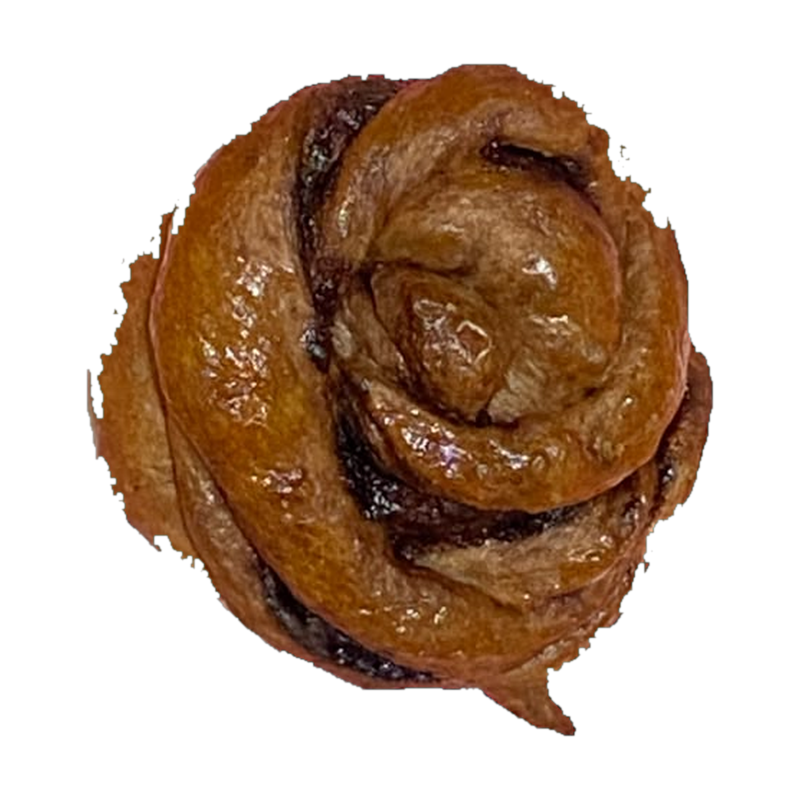
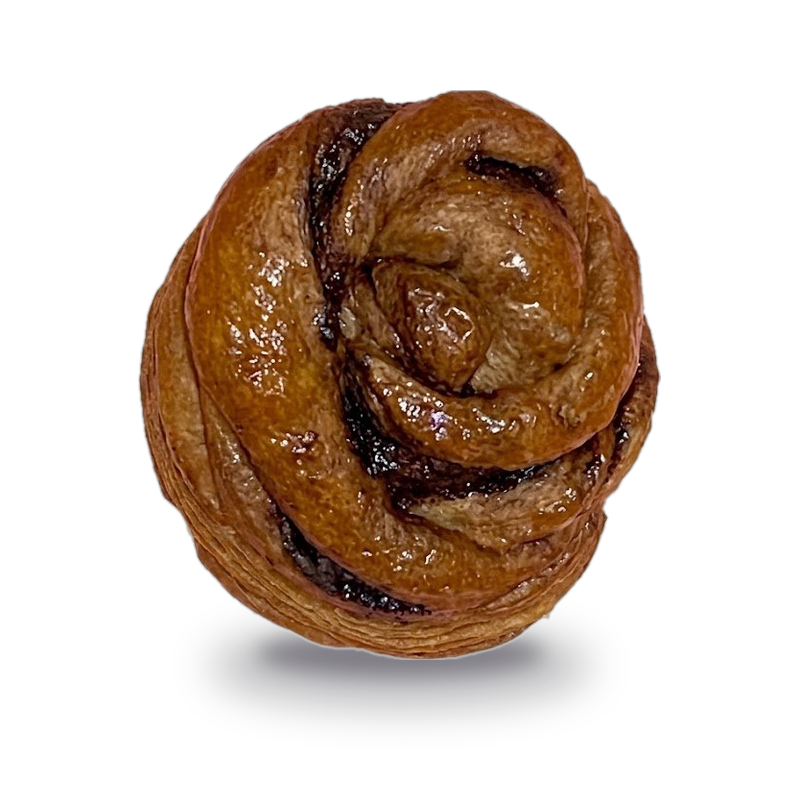
fix(product-image): update Twisted Double Choco with transparent PNG cutout and natural shadow

diff --git a/app.js b/app.js
@@ -179,7 +179,7 @@ const PRODUCTS_DATA = [
     shortDesc: 'Roti brioche gulung cokelat lembut (twisted swirl) dengan lelehan pasta cokelat pekat di bagian tengah.',
     fullDesc: 'Roti gulung twisted brioche lembut istimewa Bluezi dengan perpaduan adonan cokelat empuk dan lelehan pasta cokelat pekat di bagian tengahnya. Setiap gigitan menghadirkan limpahan cokelat yang nikmat dan memanjakan lidah para pecinta cokelat.',
     images: {
-      cutout: 'public/images/products/enhanced/double-choco.png?v=photoreal_v5',
+      cutout: 'public/images/products/enhanced/double-choco.png?v=clean_v8',
       real1: 'assets/real_photos/bluezi2/choco_swirl_top.jpg',
       real2: 'assets/editorial/choco_tray.jpg'
     },
@@ -298,7 +298,7 @@ const PRODUCTS_DATA = [
     shortDesc: 'Roti sourdough artisan cokelat pekat dengan limpahan chocolate chips dan kerak renyah istimewa.',
     fullDesc: 'Naturally fermented artisan sourdough loaf made with premium dark cocoa and studded with decadent dark chocolate chips. A deep, sophisticated chocolate experience with a chewy crumb and crispy crust.',
     images: {
-      cutout: 'public/images/products/enhanced/double-choco-loaf.png?v=clean_v7'
+      cutout: 'public/images/products/enhanced/double-choco-loaf.png?v=clean_v8'
     },
     photoShape: 'oval',
     highlights: ['Artisan Dark Cocoa Dough', 'Generous Dark Choco Chips', 'Natural Wild Yeast Starter', 'Deep Chocolate Aroma'],

diff --git a/order.js b/order.js
@@ -95,7 +95,7 @@ const BAKERY_PRODUCTS = [
     price: 6000,
     priceFormatted: 'Rp 6.000',
     shortDesc: 'Roti brioche gulung cokelat lembut (twisted swirl) dengan lelehan pasta cokelat pekat di tengah.',
-    image: 'public/images/products/enhanced/double-choco.png?v=photoreal_v5'
+    image: 'public/images/products/enhanced/double-choco.png?v=clean_v8'
   },
   {
     id: 'choux-craquelin',
@@ -155,7 +155,7 @@ const BAKERY_PRODUCTS = [
     price: 15000,
     priceFormatted: 'Rp 15.000',
     shortDesc: 'Roti sourdough artisan cokelat pekat berlimpah dark chocolate chips dengan kerak renyah istimewa.',
-    image: 'public/images/products/enhanced/double-choco-loaf.png?v=clean_v7'
+    image: 'public/images/products/enhanced/double-choco-loaf.png?v=clean_v8'
   }
 ];
 
